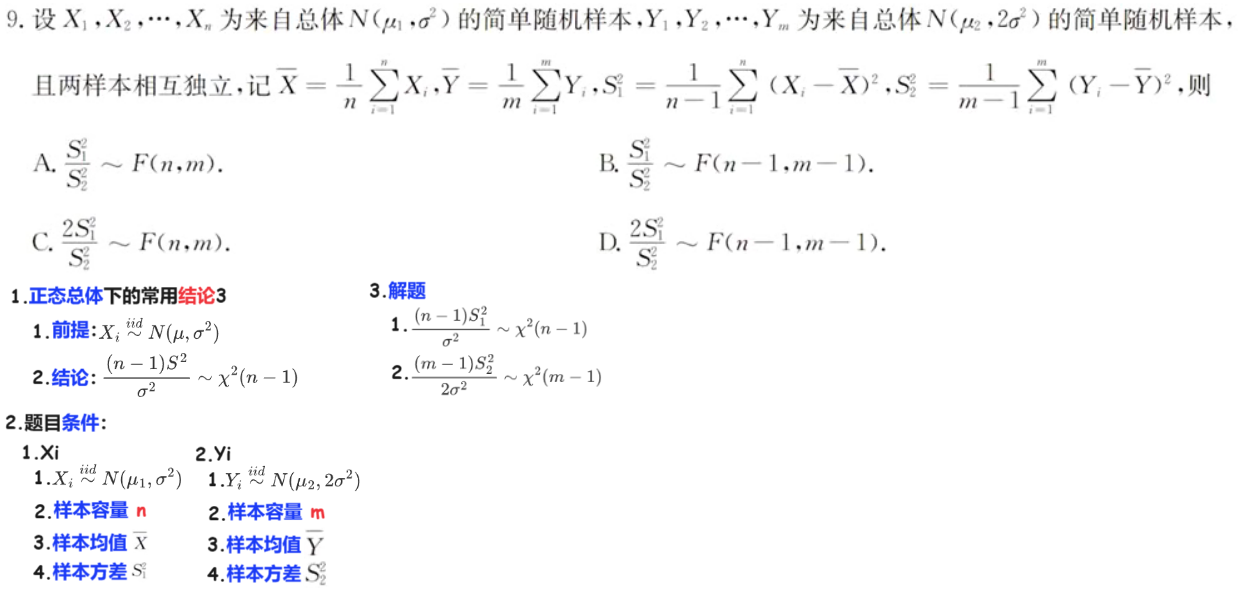
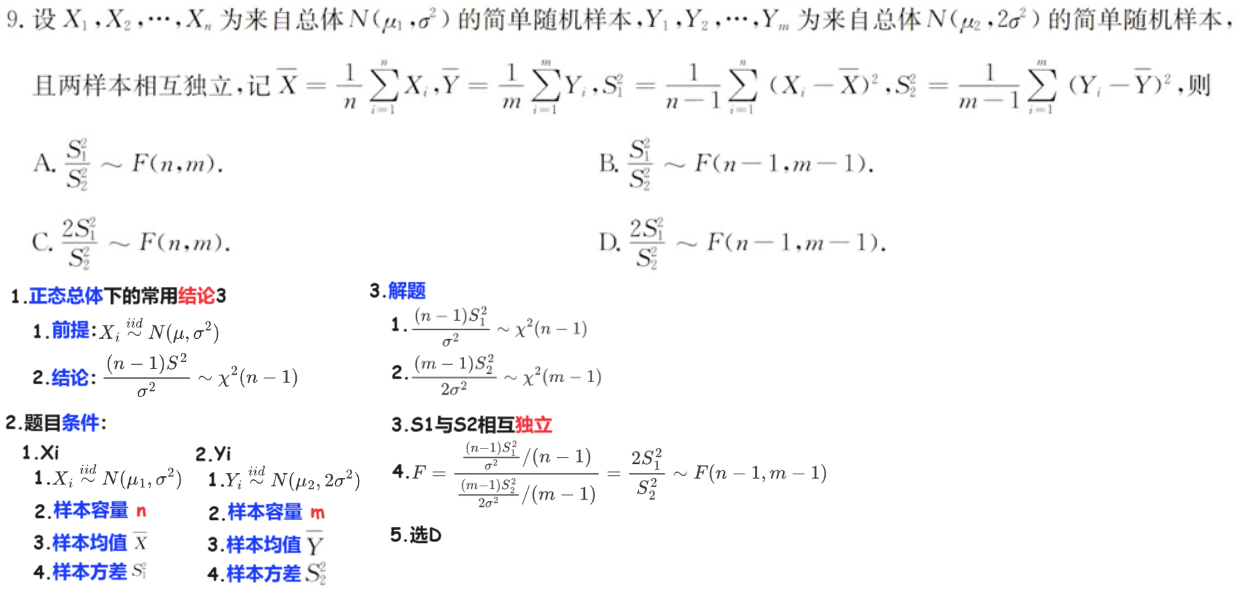
240326

Changed region(s): [[0.3067, 0.7029, 0.6747, 0.8557], [0.3067, 0.8862, 0.368, 0.9168]]

diff --git a/03 概统/01 题集/01 真题/01 23/01 小题/01 选择题 2/02 选择题09 正态总体的抽样分布 F分布 240326/02 Doc.md b/03 概统/01 题集/01 真题/01 23/01 小题/01 选择题 2/02 选择题09 正态总体的抽样分布 F分布 240326/02 Doc.md
@@ -12,7 +12,7 @@
 
 # 02 答案
 
-
+<img src="https://cvp.oss-cn-shanghai.aliyuncs.com/picgo/202403261453332.png" alt="image-20240326145304214" style="zoom:50%;" />
 
 <img src="https://cvp.oss-cn-shanghai.aliyuncs.com/picgo/202403231718602.png" alt="image-20240323171834418" style="zoom:50%;" />
 
